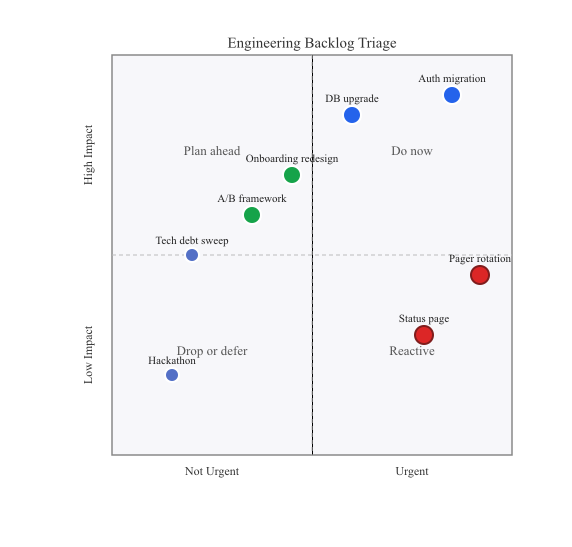
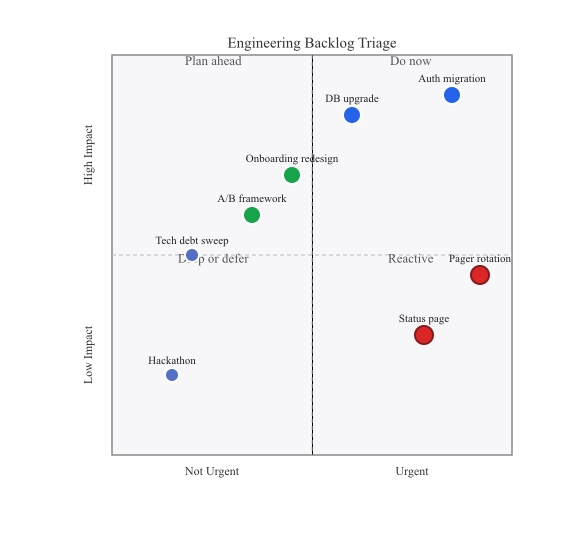
quadrant: wire QuadrantPadding + QuadrantTextTopPadding (closes #191)
These Config fields existed for spec-parity since PR #187 but the
renderer ignored them. Per the Mermaid spec
(https://mermaid.js.org/syntax/quadrantChart.html):

- QuadrantPadding: gap between adjacent quadrant rects (and between
  the rects and the plot border). Each rect insets by `pad` from
  outer edges and `pad/2` from each shared inner edge so the visible
  gap between any two neighbours is exactly `pad`. Only observable
  when per-quadrant fills are supplied (the single-rect path has
  nothing to gap).

- QuadrantTextTopPadding: vertical inset of the quadrant title
  within its own rect. Labels now anchor at the top-centre of each
  quadrant rect with `dominant-baseline="hanging"` and y-offset
  `cfg.QuadrantTextTopPadding`, matching Mermaid's "title sits at
  the top of its quadrant" convention. The previous geometric-centre
  placement was a Phase B placeholder.

Behaviour-driven tests:
- TestRenderQuadrantPaddingWired: supplies per-quadrant fills and
  asserts Q1's rect width shrinks by ≥30px when pad goes 0→20 (full
  outer + half inner = 1.5 × pad).
- TestRenderQuadrantTextTopPaddingWired: doubling padding 5→25 must
  shift Q1's label `y` by ~20px (delta within ±1 to allow rounding).

Snapshots regenerated: quadrant/campaigns.svg/png, priority.svg/png,
styling.svg/png.

diff --git a/pkg/renderer/quadrant/renderer_test.go b/pkg/renderer/quadrant/renderer_test.go
@@ -662,3 +662,107 @@ func TestResolveConfigSingleAxisDimension(t *testing.T) {
 		t.Errorf("both explicit values should be preserved; got W=%v H=%v", got.ChartWidth, got.ChartHeight)
 	}
 }
+
+// QuadrantPadding inserts a visible gap between adjacent per-quadrant
+// rects (and between the rects and the outer plot border) when
+// per-quadrant fills are supplied. With pad=0 the four rects share
+// edges; with pad>0 each rect's bounds shrink so the gap between
+// rects equals pad.
+func TestRenderQuadrantPaddingWired(t *testing.T) {
+	d := &diagram.QuadrantChartDiagram{
+		Title:     "padding test",
+		Quadrant1: "Q1", Quadrant2: "Q2", Quadrant3: "Q3", Quadrant4: "Q4",
+		Points: []diagram.QuadrantPoint{{Label: "p", X: 0.5, Y: 0.5}},
+	}
+	pal := [4]QuadrantPalette{{Fill: "#fee2e2"}, {Fill: "#dbeafe"}, {Fill: "#dcfce7"}, {Fill: "#fef3c7"}}
+	withPad := func(pad float64) string {
+		out, err := Render(d, &Options{
+			Theme:  Theme{Quadrants: pal},
+			Config: Config{QuadrantPadding: pad},
+		})
+		if err != nil {
+			t.Fatalf("Render(pad=%v): %v", pad, err)
+		}
+		return string(out)
+	}
+	zeroPad := withPad(0.001) // smallest positive that survives merge-on-positive
+	bigPad := withPad(20)
+
+	// At zero padding two adjacent quadrant rects share an edge —
+	// the right edge of Q2 equals the left edge of Q1. At 20px
+	// padding they are 20px apart. We extract the first quadrant
+	// rect's `width` attribute and check it shrinks accordingly.
+	q1WidthZero := firstQuadrantWidth(t, zeroPad, "#fee2e2")
+	q1WidthBig := firstQuadrantWidth(t, bigPad, "#fee2e2")
+	// Big-pad rect is at least (1.5 * 20)px narrower (full pad on
+	// outer edge + half pad on inner edge = 1.5 * pad).
+	if q1WidthZero-q1WidthBig < 30 {
+		t.Errorf("expected Q1 width to shrink by ≥30px at pad=20 (was %v→%v)", q1WidthZero, q1WidthBig)
+	}
+}
+
+// QuadrantTextTopPadding moves the quadrant title down from the top
+// of its rect. Doubling the padding must increase each label's `y`
+// attribute by the same delta.
+func TestRenderQuadrantTextTopPaddingWired(t *testing.T) {
+	d := &diagram.QuadrantChartDiagram{
+		Quadrant1: "Q1", Quadrant2: "Q2", Quadrant3: "Q3", Quadrant4: "Q4",
+	}
+	out5, err := Render(d, &Options{Config: Config{QuadrantTextTopPadding: 5}})
+	if err != nil {
+		t.Fatalf("Render: %v", err)
+	}
+	out25, err := Render(d, &Options{Config: Config{QuadrantTextTopPadding: 25}})
+	if err != nil {
+		t.Fatalf("Render: %v", err)
+	}
+	q1Y5 := firstLabelY(t, string(out5), "Q1")
+	q1Y25 := firstLabelY(t, string(out25), "Q1")
+	if delta := q1Y25 - q1Y5; delta < 19 || delta > 21 {
+		t.Errorf("expected Q1 label y to shift by ~20px when padding goes 5→25, got delta=%v", delta)
+	}
+}
+
+// firstQuadrantWidth pulls the `width` attribute of the first <rect>
+// whose fill matches `fillHex`. Used to measure post-padding rect
+// dimensions without relying on element ordering.
+func firstQuadrantWidth(t *testing.T, svg, fillHex string) float64 {
+	t.Helper()
+	idx := strings.Index(svg, "fill:"+fillHex)
+	if idx < 0 {
+		t.Fatalf("missing rect with fill %s", fillHex)
+	}
+	head := svg[:idx]
+	wAt := strings.LastIndex(head, ` width="`)
+	if wAt < 0 {
+		t.Fatalf("could not locate width attribute for %s", fillHex)
+	}
+	wEnd := strings.Index(head[wAt+8:], `"`)
+	v, err := strconv.ParseFloat(head[wAt+8:wAt+8+wEnd], 64)
+	if err != nil {
+		t.Fatalf("malformed width %q: %v", head[wAt+8:wAt+8+wEnd], err)
+	}
+	return v
+}
+
+// firstLabelY returns the `y` attribute of the first <text> element
+// containing the given label string.
+func firstLabelY(t *testing.T, svg, label string) float64 {
+	t.Helper()
+	marker := ">" + label + "<"
+	idx := strings.Index(svg, marker)
+	if idx < 0 {
+		t.Fatalf("missing label %q", label)
+	}
+	head := svg[:idx]
+	yAt := strings.LastIndex(head, ` y="`)
+	if yAt < 0 {
+		t.Fatalf("could not locate y attribute for %q", label)
+	}
+	yEnd := strings.Index(head[yAt+4:], `"`)
+	v, err := strconv.ParseFloat(head[yAt+4:yAt+4+yEnd], 64)
+	if err != nil {
+		t.Fatalf("malformed y %q: %v", head[yAt+4:yAt+4+yEnd], err)
+	}
+	return v
+}

diff --git a/pkg/renderer/quadrant/renderer.go b/pkg/renderer/quadrant/renderer.go
@@ -120,13 +120,25 @@ func Render(d *diagram.QuadrantChartDiagram, opts *Options) ([]byte, error) {
 	// per-quadrant rects. Keeping the single-rect path preserves
 	// SVG output stability when callers don't override the
 	// quadrant palette.
-	// Per-quadrant rect bounds in QuadrantQ1..Q4 order.
+	//
+	// Per-quadrant rects honour cfg.QuadrantPadding by insetting
+	// each rect from shared/outer edges so the gap between adjacent
+	// rects (and between rects and the plot border) is exactly
+	// QuadrantPadding. Inner edges share the gap with the
+	// neighbouring quadrant (½ each); outer edges take the full
+	// padding from the plot border.
 	type quadRect struct{ x0, y0, x1, y1 float64 }
+	pad := cfg.QuadrantPadding
+	half := pad / 2
 	quadRects := [4]quadRect{
-		{midX, plotY0, plotX1, midY},
-		{plotX0, plotY0, midX, midY},
-		{plotX0, midY, midX, plotY1},
-		{midX, midY, plotX1, plotY1},
+		// Q1 top-right: inner edges shared with Q2 (left) and Q4 (bottom)
+		{midX + half, plotY0 + pad, plotX1 - pad, midY - half},
+		// Q2 top-left: inner edges shared with Q1 (right) and Q3 (bottom)
+		{plotX0 + pad, plotY0 + pad, midX - half, midY - half},
+		// Q3 bottom-left: inner edges shared with Q2 (top) and Q4 (right)
+		{plotX0 + pad, midY + half, midX - half, plotY1 - pad},
+		// Q4 bottom-right: inner edges shared with Q3 (left) and Q1 (top)
+		{midX + half, midY + half, plotX1 - pad, plotY1 - pad},
 	}
 	hasPerQuadrant := false
 	for _, q := range th.Quadrants {
@@ -186,22 +198,21 @@ func Render(d *diagram.QuadrantChartDiagram, opts *Options) ([]byte, error) {
 		Style: dividerStyle,
 	})
 
-	// Labels in QuadrantQ1..Q4 order so each Theme.Quadrants[i]
-	// text color lines up by index.
-	type qLabel struct {
+	// Labels render at the horizontal centre of each quadrant rect
+	// and inset cfg.QuadrantTextTopPadding from the top edge —
+	// matching Mermaid's "title sits at the top of its quadrant"
+	// convention rather than the geometric centre. Inner-edge
+	// (top edge of Q3/Q4) aligns to midY; outer-edge (top of Q1/Q2)
+	// aligns to plotY0.
+	for i, q := range []struct {
 		text string
-		x, y float64 // 0 = left/top, 1 = right/bottom within its half
-	}
-	labels := [4]qLabel{
-		{d.Quadrant1, 1, 0},
-		{d.Quadrant2, 0, 0},
-		{d.Quadrant3, 0, 1},
-		{d.Quadrant4, 1, 1},
-	}
-	quadCenter := func(x, y float64) (float64, float64) {
-		return (plotX0+midX)/2 + x*(plotSide/2), (plotY0+midY)/2 + y*(plotSide/2)
-	}
-	for i, q := range labels {
+		rect quadRect
+	}{
+		{d.Quadrant1, quadRects[0]},
+		{d.Quadrant2, quadRects[1]},
+		{d.Quadrant3, quadRects[2]},
+		{d.Quadrant4, quadRects[3]},
+	} {
 		if q.text == "" {
 			continue
 		}
@@ -209,12 +220,13 @@ func Render(d *diagram.QuadrantChartDiagram, opts *Options) ([]byte, error) {
 		if fill == "" {
 			fill = th.QuadrantTitleFill
 		}
-		cx, cy := quadCenter(q.x, q.y)
+		cx := (q.rect.x0 + q.rect.x1) / 2
+		cy := q.rect.y0 + cfg.QuadrantTextTopPadding
 		children = append(children, &text{
 			X:        svgFloat(cx),
 			Y:        svgFloat(cy),
 			Anchor:   "middle",
-			Dominant: "central",
+			Dominant: "hanging",
 			Style:    fmt.Sprintf("fill:%s;font-size:%.0fpx;font-weight:bold", fill, cfg.QuadrantLabelFontSize),
 			Content:  q.text,
 		})
